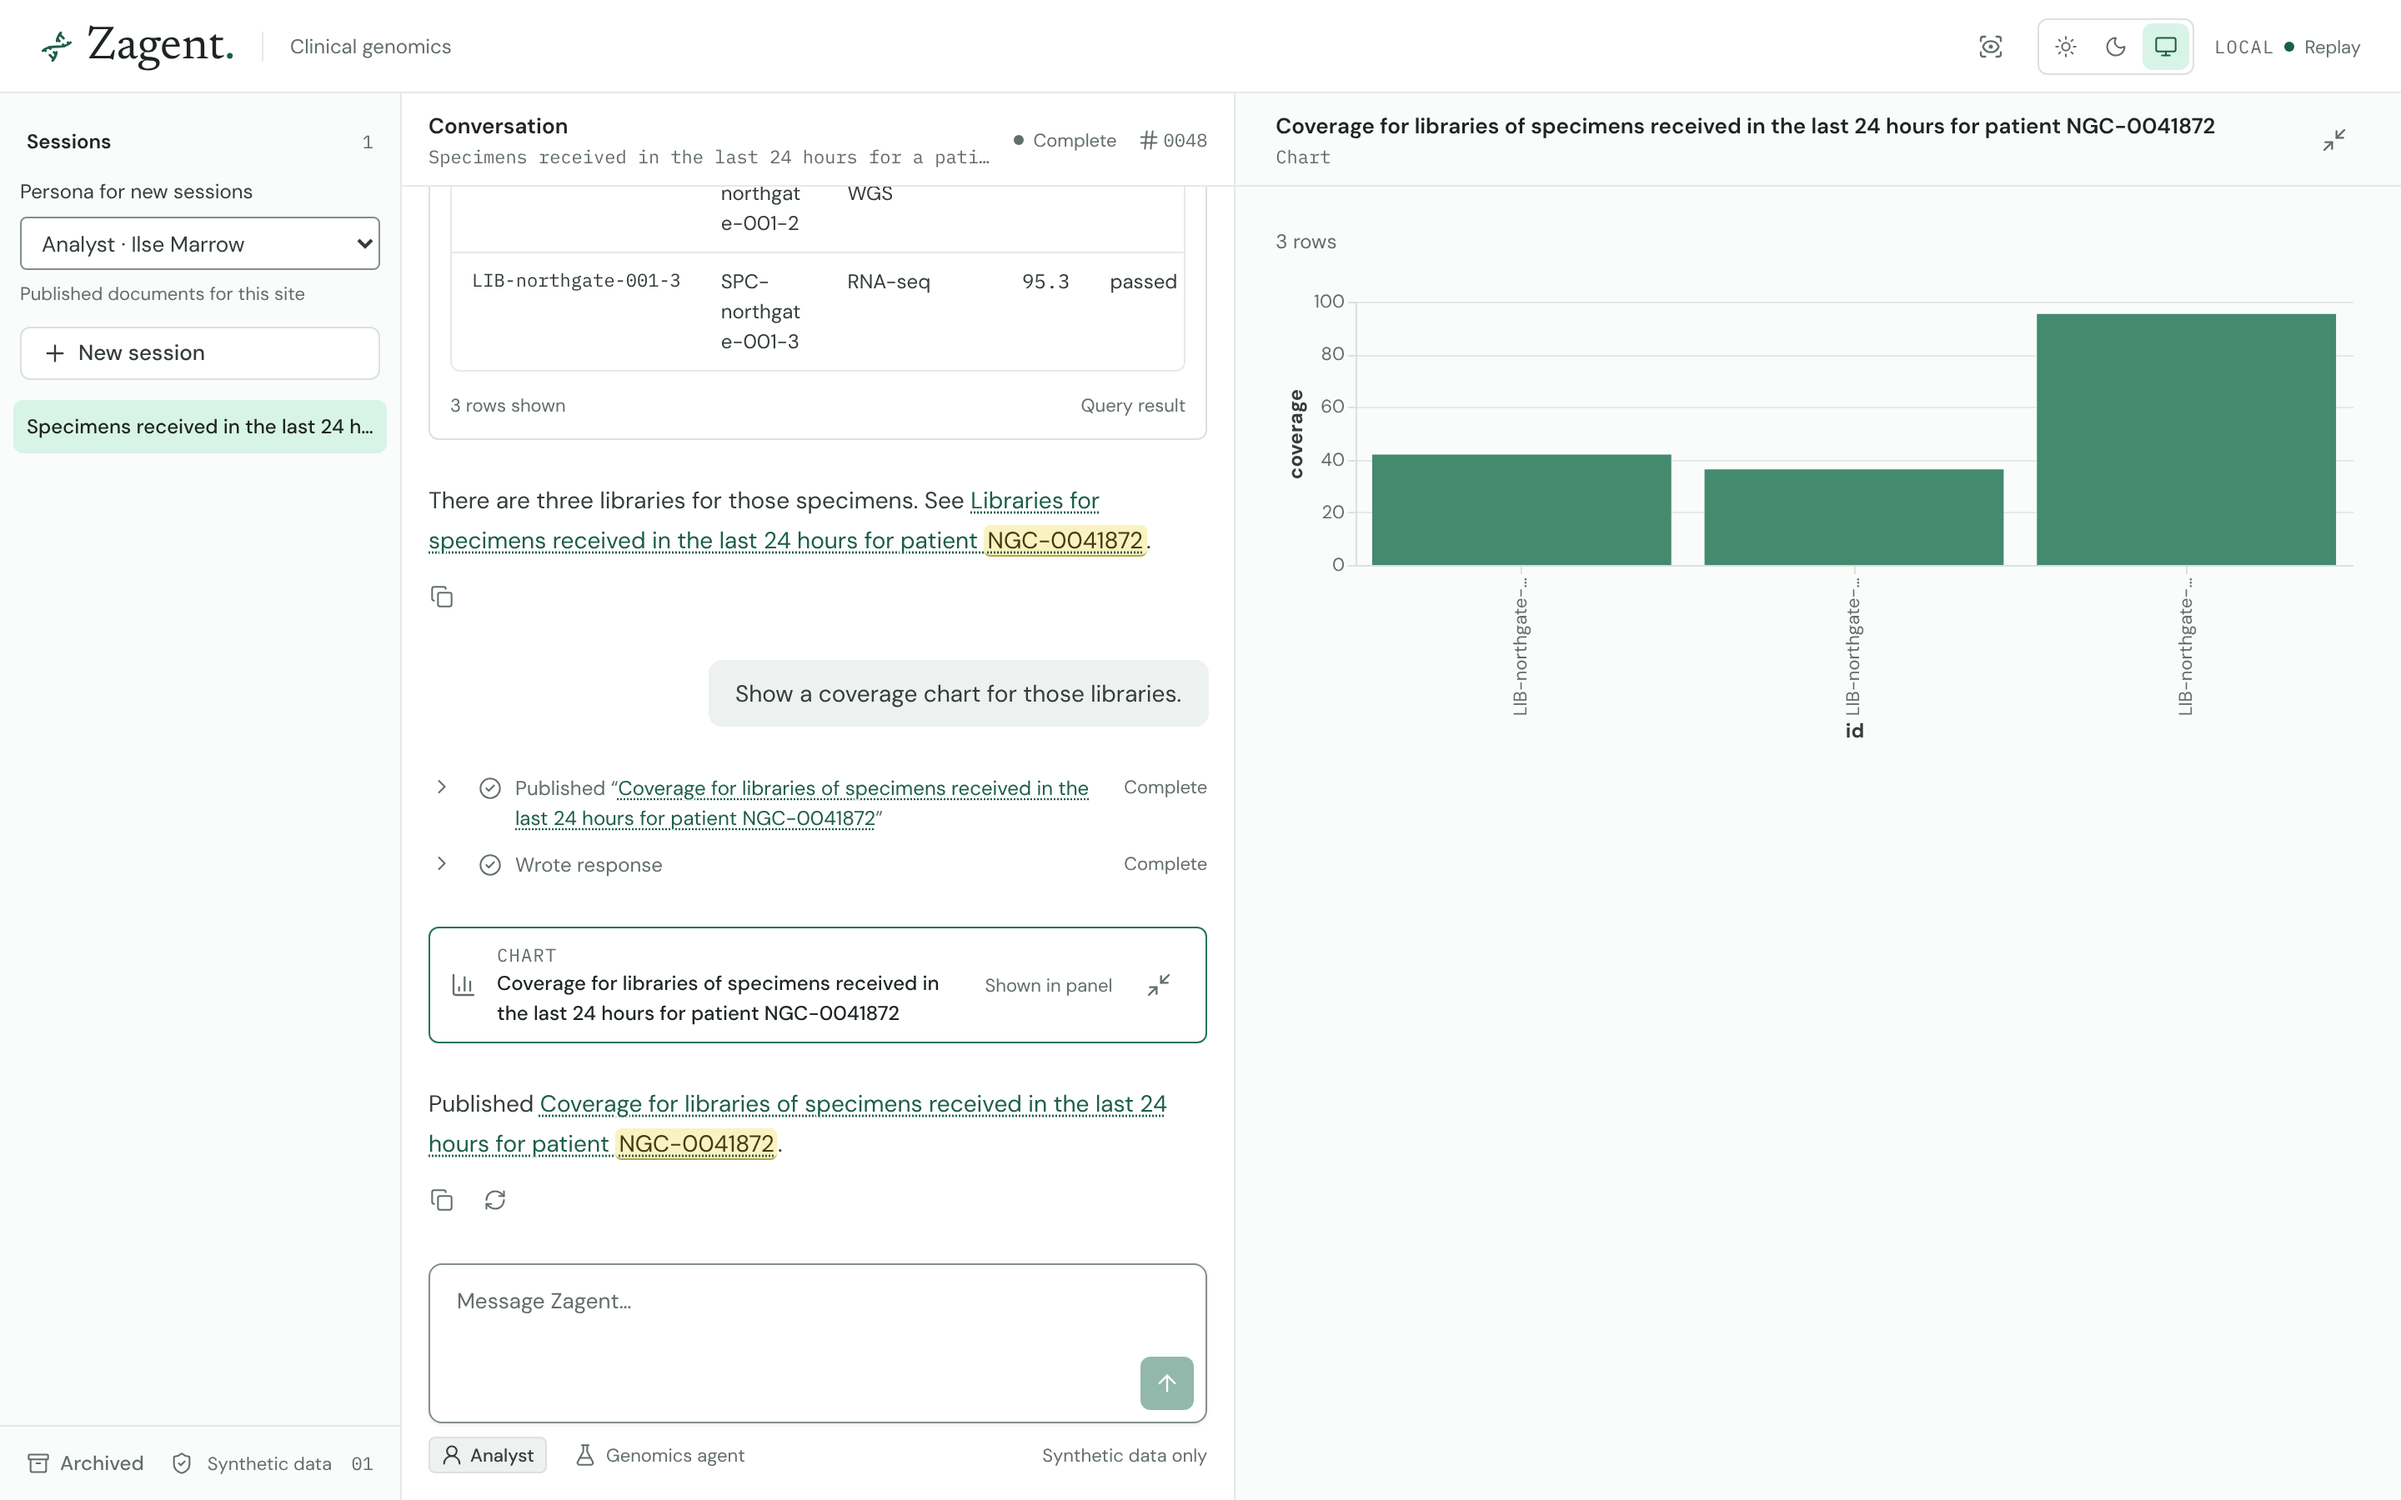
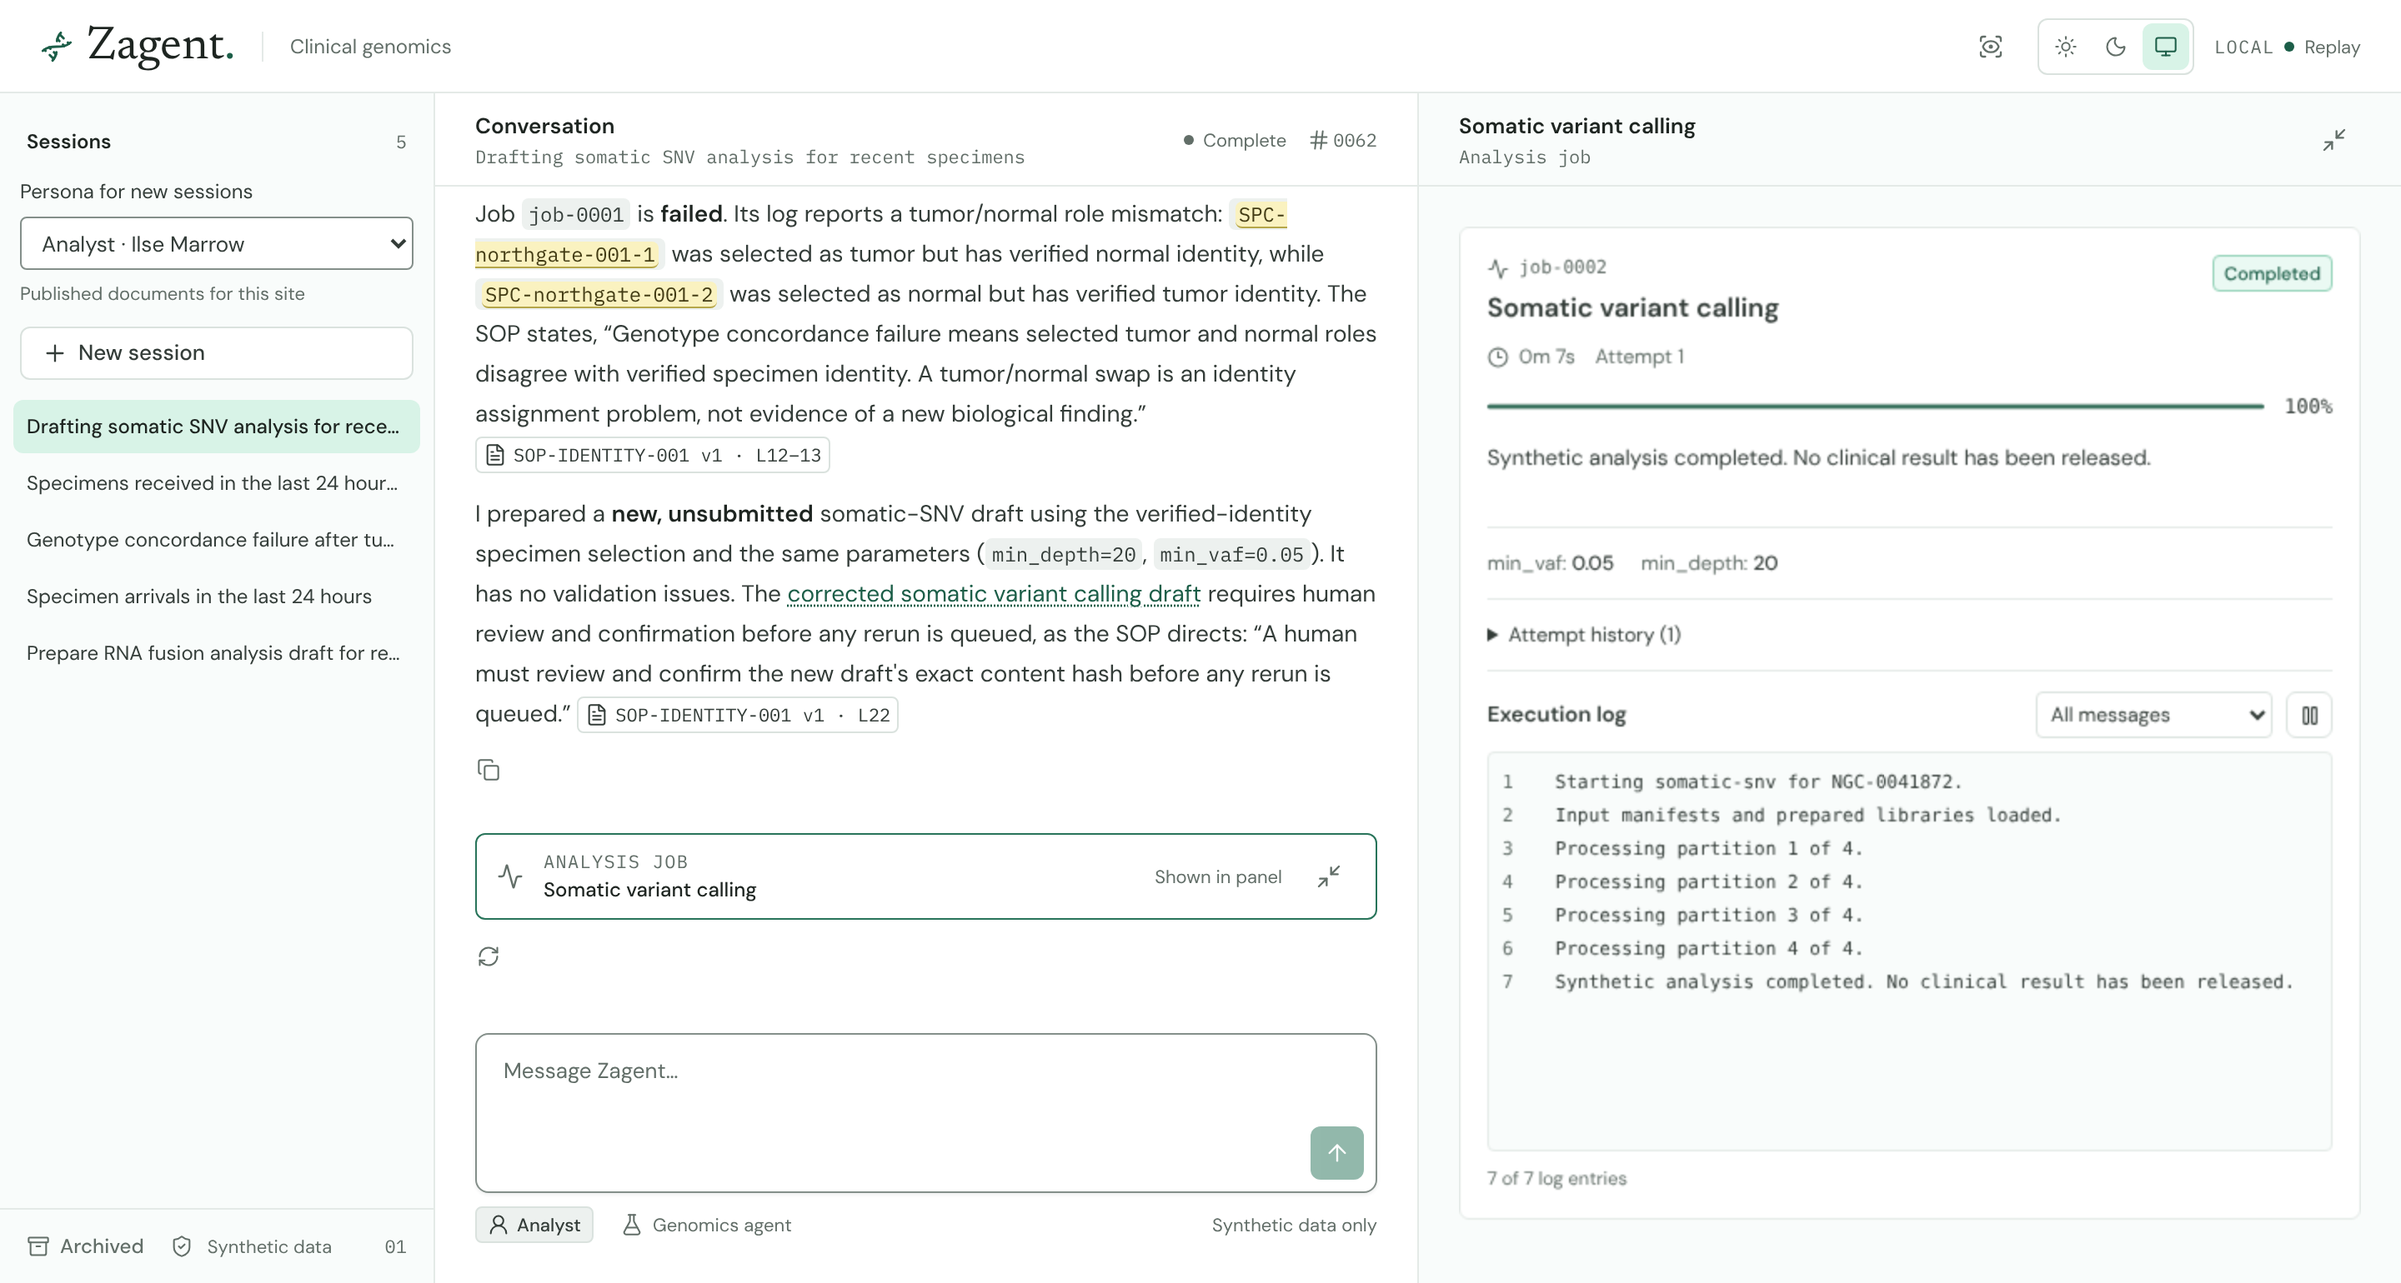
Show a completed job in the README screenshot
Five replayed sessions instead of one. The selected session is EXEC-SWAP: a
somatic run fails on genotype concordance, the agent cites the identity SOP
and prepares a corrected draft, and the confirmed rerun completes. Its job
card is maximized, with the panels at an even split.

Claude-Session: https://claude.ai/code/session_01HpzBZ5VESJdJkqQCkxiL8K

diff --git a/README.md b/README.md
@@ -92,7 +92,7 @@ report gives them intervals instead of checkmarks.
 
 <!-- TODO(PLAN11): replace with the 2-minute walkthrough recording -->
 
-![Zagent with a three-turn conversation about patient NGC-0041872: a library table in the chat and a coverage chart maximized in the right panel](docs/images/zagent.png)
+![Zagent after a failed somatic run: the agent cites the identity SOP, prepares a corrected draft, and the confirmed rerun completes in the maximized job card]((docs/images/zagent.png)
 
 Three panels, in the shape most people already know.
 
